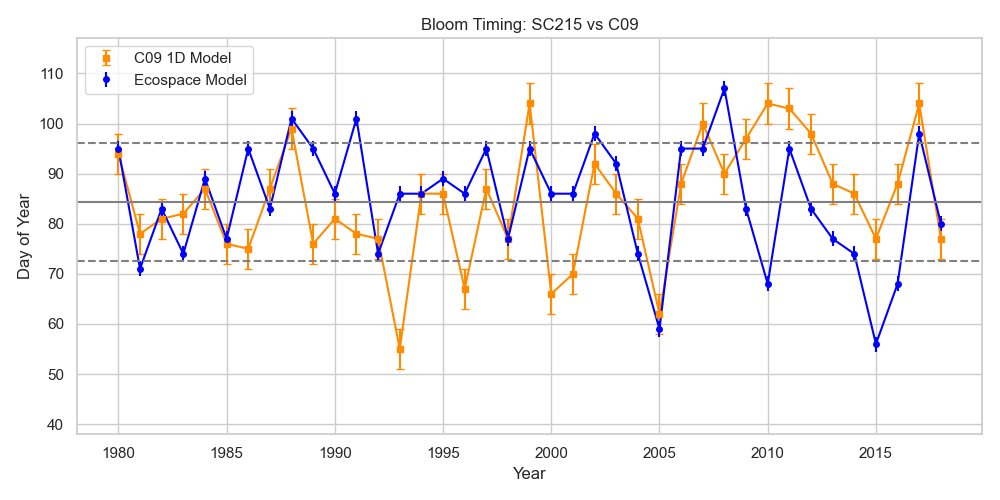
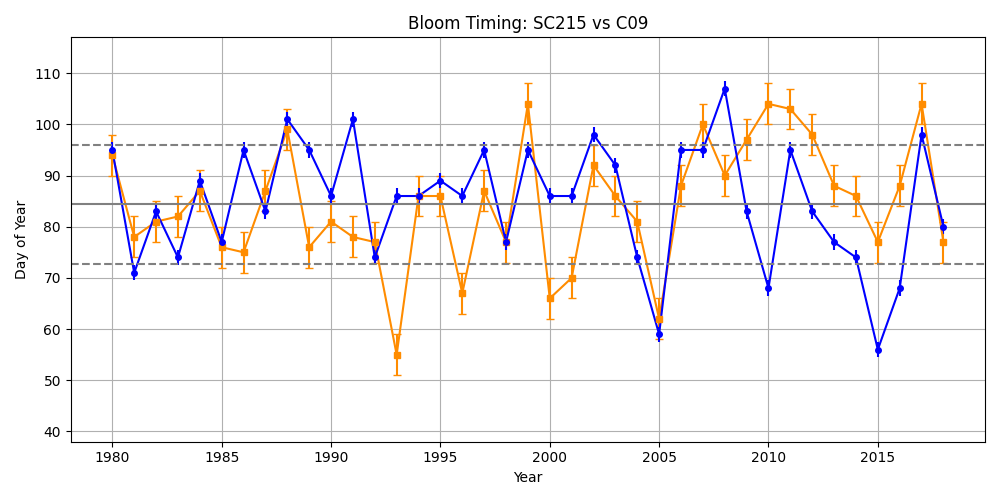
plots

diff --git a/scripts/PublicationScripts/ecospace_eval_4a_bloomt_CSoG.py b/scripts/PublicationScripts/ecospace_eval_4a_bloomt_CSoG.py
@@ -417,7 +417,7 @@ def plot_bloom_comparison(df_model, df_obs, label_model="Ecospace",
     ax.set_ylabel("Day of Year")
     ax.set_title(title)
     ax.set_ylim([MIN_Y_TICK, df_merged[["Day of Year_Model", "Day of Year_Obs"]].max().max() + 10])
-    ax.legend()
+    # ax.legend()
     plt.tight_layout()
     plt.savefig('..//..//figs//' + filename)
     plt.show()
